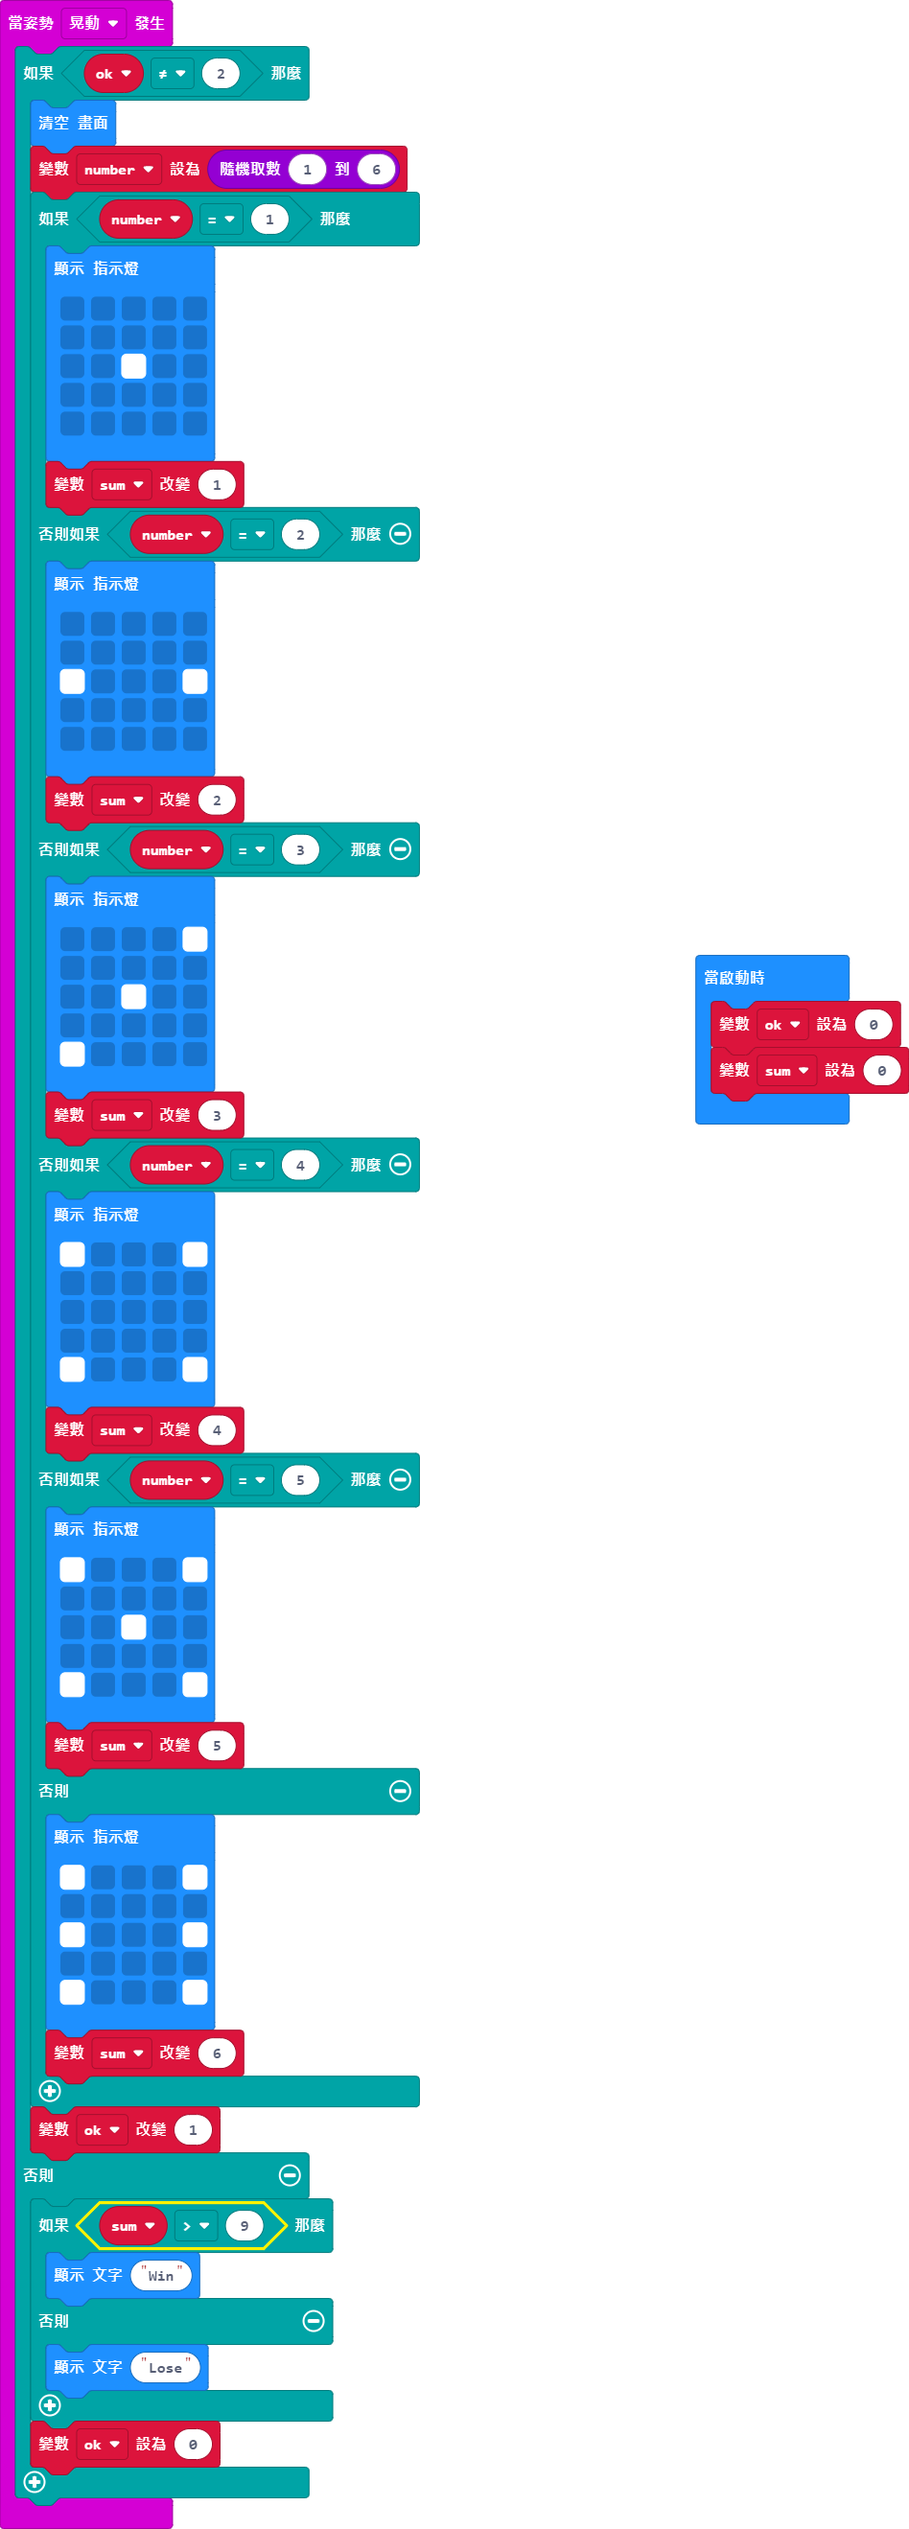
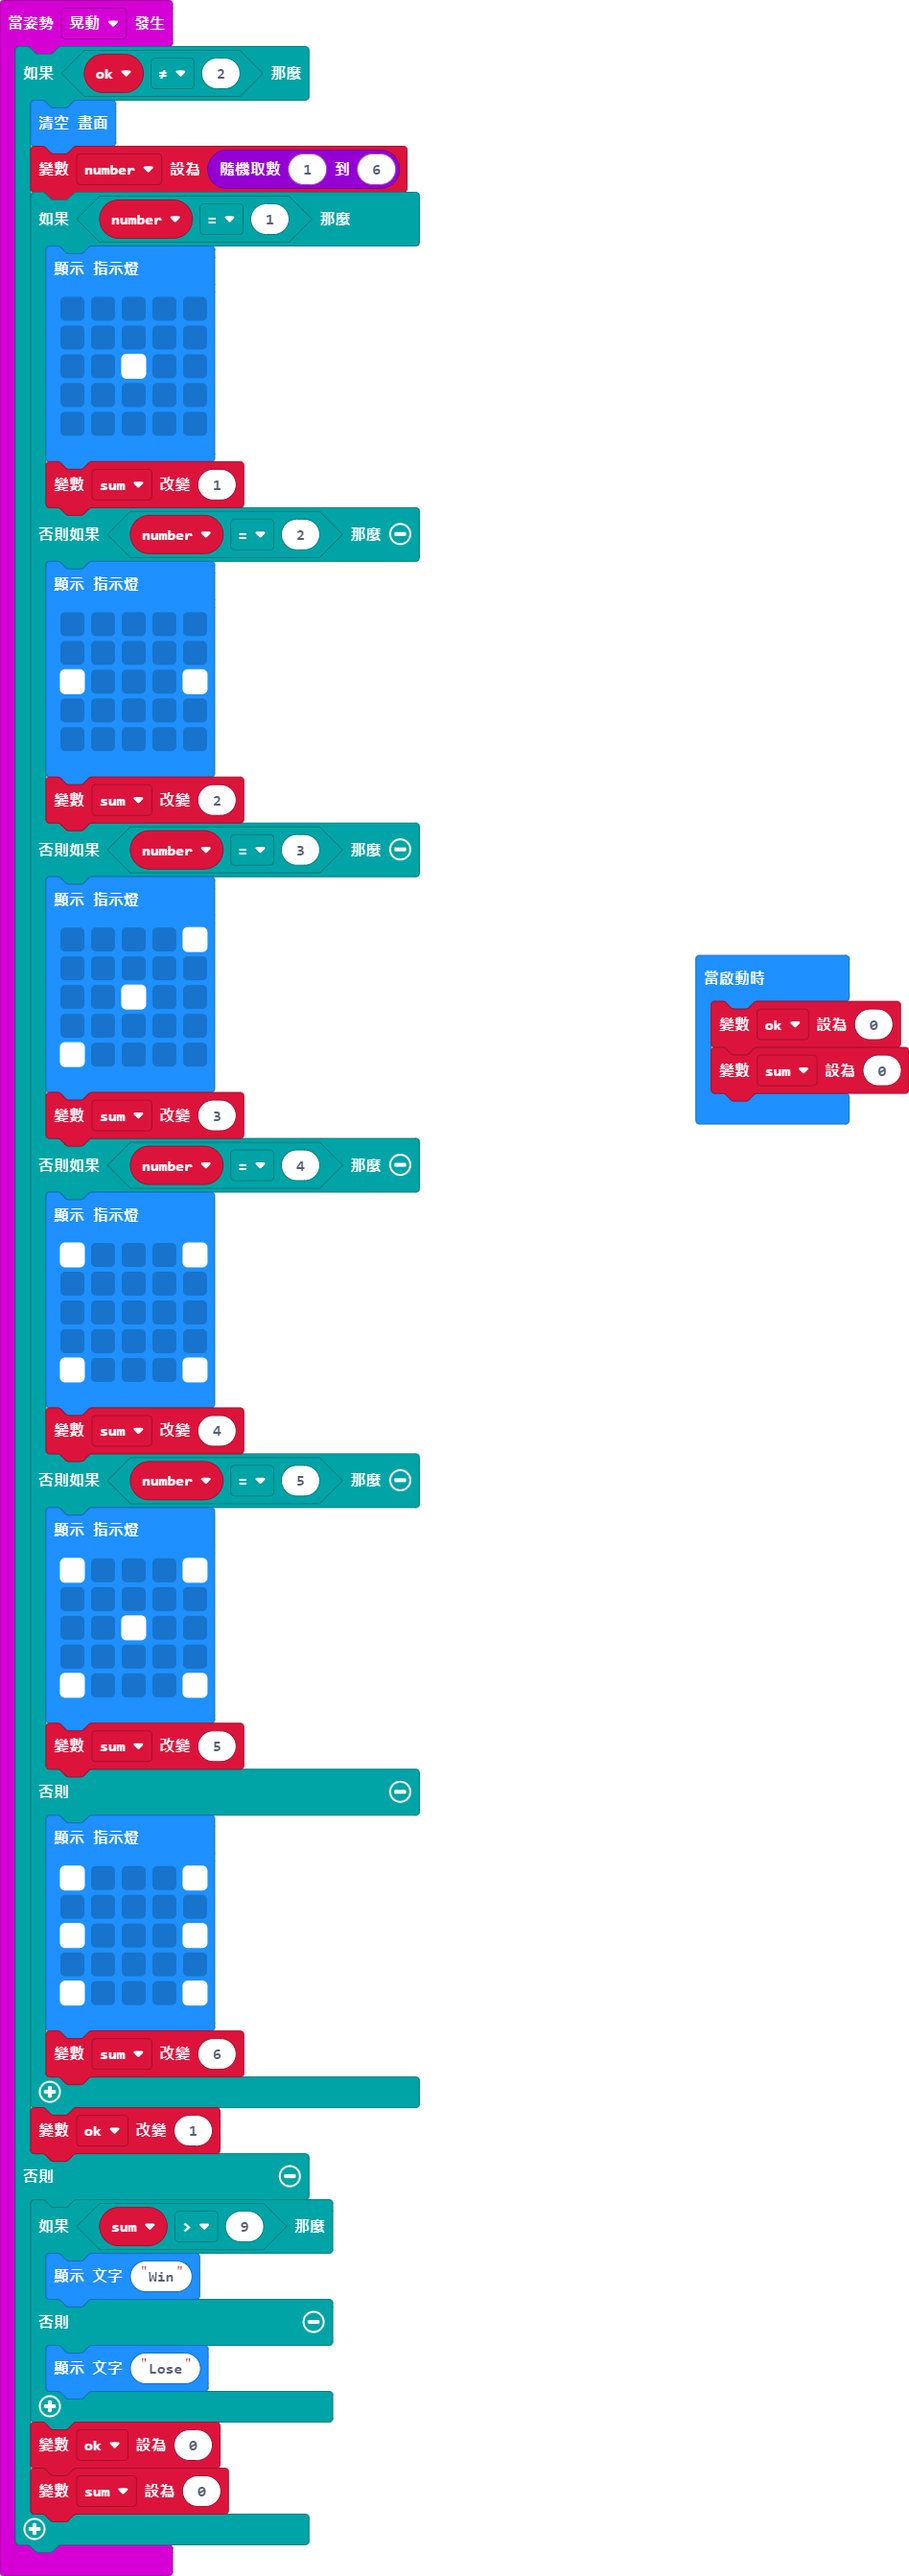
更新 main.blocks, main.ts

Changed region(s): [[0.0, 0.0, 0.4589, 0.9947], [0.7648, 0.373, 1.0, 0.4663]]

diff --git a/main.ts b/main.ts
@@ -65,6 +65,7 @@ input.onGesture(Gesture.Shake, function () {
             basic.showString("Lose")
         }
         ok = 0
+        sum = 0
     }
 })
 let number = 0
